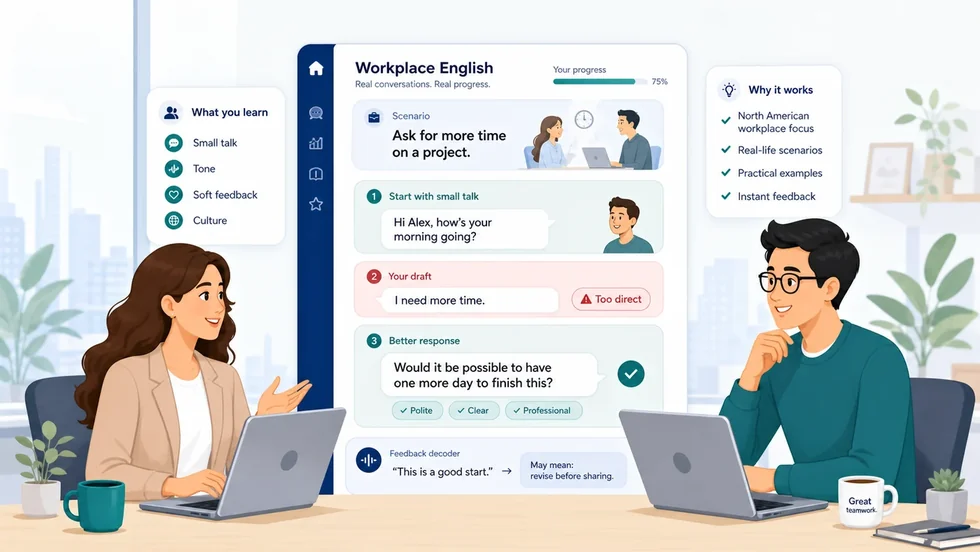
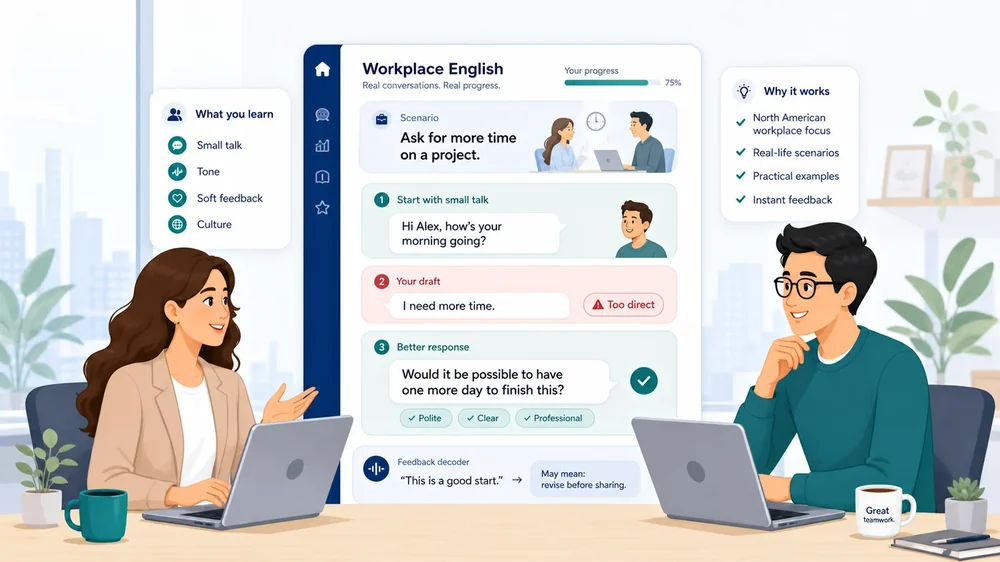
Add files via upload

diff --git a/assets/css/style.css b/assets/css/style.css
@@ -1555,3 +1555,241 @@ h1, h2 {
     display: none !important;
   }
 }
+
+
+/* =========================================================
+   v4.7 FINAL MOBILE HERO FIX
+   Purpose:
+   - Keep the Hero image visible on mobile.
+   - Avoid the missing mobile source problem by using an included asset:
+     /assets/images/lp/workwise-english-mobile-responsive-hero.webp
+   - Prevent large blank spaces around the image.
+   - Keep desktop layout unchanged.
+   ========================================================= */
+
+.mobile-copy { display: none; }
+
+@media (max-width: 767px) {
+  .desktop-copy { display: none !important; }
+  .mobile-copy { display: inline !important; }
+
+  .site-header {
+    position: sticky !important;
+    top: 0 !important;
+    z-index: 100 !important;
+    background: rgba(255,255,255,.96) !important;
+    backdrop-filter: blur(14px) !important;
+  }
+
+  .header-inner {
+    min-height: 64px !important;
+    padding-top: 8px !important;
+    padding-bottom: 8px !important;
+    gap: 10px !important;
+  }
+
+  .brand {
+    flex: 1 1 auto !important;
+    min-width: 0 !important;
+    gap: 8px !important;
+  }
+
+  .brand-mark {
+    width: 40px !important;
+    height: 40px !important;
+    min-width: 40px !important;
+    border-radius: 12px !important;
+    font-size: 20px !important;
+  }
+
+  .brand span:last-child {
+    white-space: normal !important;
+    font-size: 23px !important;
+    line-height: 1.02 !important;
+    letter-spacing: -0.04em !important;
+  }
+
+  .header-actions {
+    flex: 0 0 auto !important;
+  }
+
+  .header-actions .btn {
+    width: auto !important;
+    height: 42px !important;
+    min-width: 106px !important;
+    padding: 0 14px !important;
+    border-radius: 14px !important;
+    font-size: 14px !important;
+    line-height: 1 !important;
+    display: inline-flex !important;
+    align-items: center !important;
+    justify-content: center !important;
+    text-align: center !important;
+  }
+
+  .hero-v4 {
+    padding: 12px 0 24px !important;
+  }
+
+  .hero-v4-grid {
+    display: flex !important;
+    flex-direction: column !important;
+    gap: 14px !important;
+    align-items: stretch !important;
+  }
+
+  .hero-v4 .hero-visual,
+  .hero-v4 .hero-visual-v4 {
+    display: block !important;
+    visibility: visible !important;
+    opacity: 1 !important;
+    order: 1 !important;
+    width: 100% !important;
+    margin: 0 !important;
+    padding: 0 !important;
+    border-radius: 22px !important;
+    overflow: hidden !important;
+    background: #fff !important;
+    box-shadow: 0 14px 38px rgba(16,35,74,.10) !important;
+    border: 1px solid rgba(16,35,74,.08) !important;
+    animation: none !important;
+    transform: none !important;
+  }
+
+  .hero-v4 .hero-visual-v4 picture,
+  .hero-v4 .hero-visual picture {
+    display: block !important;
+    width: 100% !important;
+    aspect-ratio: 16 / 9 !important;
+    overflow: hidden !important;
+    background: #fff !important;
+  }
+
+  .hero-v4 .hero-visual-v4 img,
+  .hero-v4 .hero-visual img {
+    display: block !important;
+    visibility: visible !important;
+    opacity: 1 !important;
+    width: 100% !important;
+    height: 100% !important;
+    max-width: none !important;
+    max-height: none !important;
+    min-height: 0 !important;
+    object-fit: cover !important;
+    object-position: center center !important;
+    border-radius: 22px !important;
+    box-shadow: none !important;
+    transform: none !important;
+  }
+
+  .hero-v4 .hero-copy {
+    order: 2 !important;
+    width: 100% !important;
+    max-width: none !important;
+    text-align: left !important;
+  }
+
+  .hero-v4 .hero-eyebrow {
+    margin: 2px 0 10px !important;
+    padding: 7px 12px !important;
+    font-size: 12px !important;
+  }
+
+  .hero-v4 h1 {
+    margin: 0 0 10px !important;
+    font-size: clamp(32px, 8.8vw, 40px) !important;
+    line-height: 1.02 !important;
+    letter-spacing: -0.058em !important;
+  }
+
+  .hero-v4 h1::after {
+    width: 60px !important;
+    height: 5px !important;
+    margin-top: 10px !important;
+  }
+
+  .hero-lead {
+    margin: 0 0 12px !important;
+    font-size: 16px !important;
+    line-height: 1.48 !important;
+  }
+
+  .hero-actions {
+    display: grid !important;
+    grid-template-columns: 1fr 1fr !important;
+    gap: 10px !important;
+    margin: 0 0 8px !important;
+  }
+
+  .hero-actions .btn {
+    width: 100% !important;
+    min-height: 46px !important;
+    padding: 12px 8px !important;
+    border-radius: 14px !important;
+    font-size: 15px !important;
+    display: inline-flex !important;
+    align-items: center !important;
+    justify-content: center !important;
+    text-align: center !important;
+  }
+
+  .hero-cta-note {
+    margin: 0 0 8px !important;
+    color: #4b5d76 !important;
+    font-size: 12px !important;
+    font-weight: 750 !important;
+    line-height: 1.35 !important;
+  }
+
+  .hero-level {
+    margin: 0 0 8px !important;
+    padding: 7px 10px !important;
+    font-size: 12px !important;
+    line-height: 1.25 !important;
+  }
+
+  .hero-trust-line {
+    font-size: 12px !important;
+    line-height: 1.35 !important;
+  }
+
+  .hero-benefits {
+    display: grid !important;
+    grid-template-columns: 1fr 1fr !important;
+    gap: 10px !important;
+    margin-top: 16px !important;
+  }
+
+  .benefit-card {
+    min-height: 58px !important;
+    padding: 12px !important;
+    font-size: 12px !important;
+    border-radius: 16px !important;
+  }
+
+  .benefit-card span {
+    width: 32px !important;
+    height: 32px !important;
+    min-width: 32px !important;
+    border-radius: 10px !important;
+  }
+
+  .definition-line {
+    display: none !important;
+  }
+
+  .difference-example img {
+    width: 100% !important;
+    height: auto !important;
+    max-height: 260px !important;
+    object-fit: contain !important;
+    border-radius: 18px !important;
+  }
+
+  .final-cta img {
+    display: block !important;
+    width: 100% !important;
+    max-height: 220px !important;
+    object-fit: contain !important;
+  }
+}

diff --git a/V4-SEO-AEO-NOTES.md b/V4-SEO-AEO-NOTES.md
@@ -33,20 +33,3 @@ Understand what people really mean. Know what to say next. Work smoother. Grow f
 - Tightened CTA copy and added “No signup. No credit card. Opens in your browser.”
 - Reinforced culture-first copy consistency.
 - Improved header Start Free button centering and mobile sizing.
-
-
-## v4.5 responsive mobile Hero
-
-- Mobile Hero image remains visible.
-- Mobile uses an app-focused responsive image instead of hiding the visual.
-- Mobile image is capped at 235px height to keep the first view compact.
-- Mobile headline is shortened while desktop headline remains unchanged.
-- Hero benefits are compact on mobile.
-- Difference and final CTA images remain visible but capped to prevent stretching.
-
-
-## v4.6 hard override
-
-- Added final CSS override to force the mobile Hero image to display.
-- Mobile Hero uses a 16:9 responsive image container and `object-fit: cover` to avoid strange blank spaces.
-- Removed any possible mobile app preview display so the actual image remains visible.

diff --git a/README.md b/README.md
@@ -35,10 +35,6 @@ SEO/AEO-ready static site for Workwise English.
 
 Progress is saved in the user’s browser. Use Export / Import to back up or move learning history.
 
-## v4.5
+## v4.7
 
-Responsive mobile Hero with image visible and compact first-view layout.
-
-## v4.6
-
-Hard CSS override to force mobile Hero image visible with 16:9 responsive sizing.
+Mobile Hero fixed with visible responsive image asset and final CSS override.
